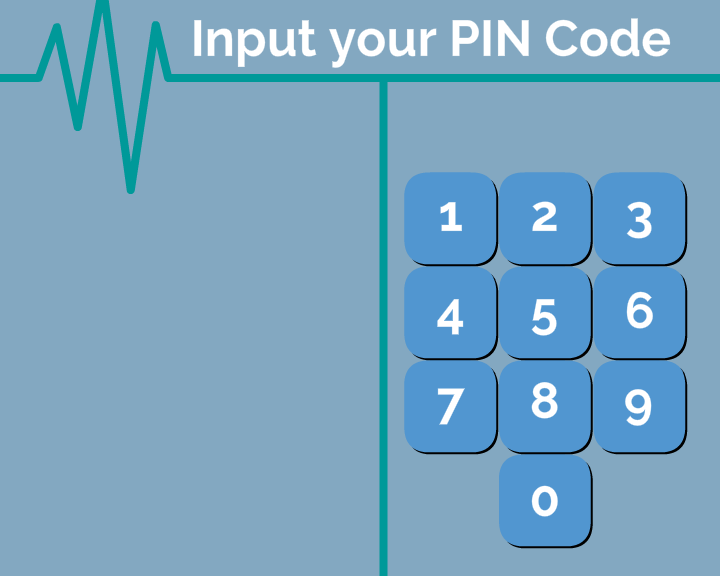
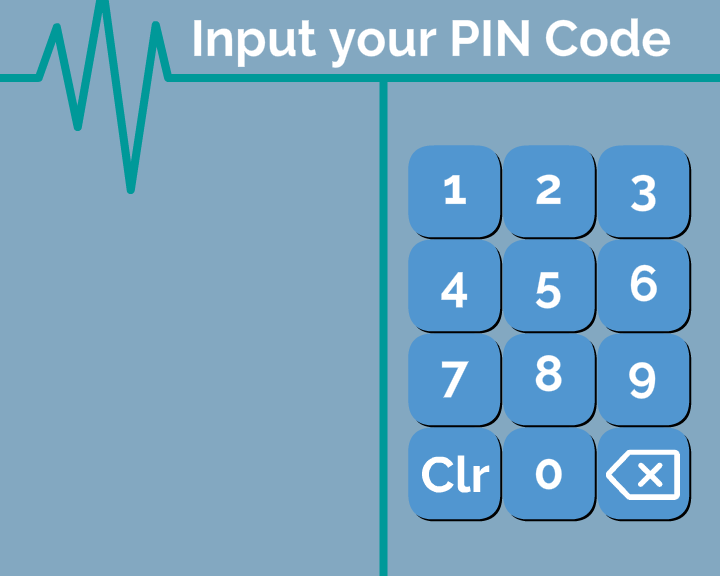
FixA

Changed region(s): [[0.55, 0.25, 0.9778, 0.9688]]

diff --git a/src/controller/PinInput.java b/src/controller/PinInput.java
@@ -18,22 +18,43 @@ import javax.swing.GroupLayout;
 import javax.swing.GroupLayout.Alignment;
 import java.awt.Font;
 import javax.swing.ImageIcon;
+import java.awt.event.MouseAdapter;
+import java.awt.event.MouseEvent;
 
 public class PinInput extends JPanel {
-	private JTextField textField;
+	private JTextField pinField;
 
 	/**
 	 * Create the panel.
 	 */
 	public PinInput() {
 		
-		setBounds(10, 136, 700, 429); //This is the size of this panel
+		setBounds(0, 0, 720, 576); //This is the size of this panel
 		//===========================
-		textField = new JTextField();
-		textField.setBounds(32, 173, 330, 142);
+		pinField = new JTextField();
+		pinField.setBounds(26, 233, 330, 142);
 		setLayout(null);
-		add(textField);
-		textField.setColumns(10);
+		add(pinField);
+		pinField.setColumns(10);
+		
+		final JLabel lblresponseDummy = new JLabel("Response Dummy");
+		lblresponseDummy.setBounds(191, 99, 142, 64);
+		add(lblresponseDummy);
+		
+		JLabel btnNum1 = new JLabel("");
+		btnNum1.addMouseListener(new MouseAdapter() {
+			public void mouseClicked(MouseEvent arg0) {
+				lblresponseDummy.setText("Response Detected");
+				pinField.setText("1");
+			}
+		});
+		btnNum1.setBounds(403, 173, 95, 91);
+		add(btnNum1);
+		
+		JLabel Background = new JLabel("New label");
+		Background.setIcon(new ImageIcon(PinInput.class.getResource("/assets/Pinput.png")));
+		Background.setBounds(0, 0, 720, 576);
+		add(Background);
 
 	}
 }

diff --git a/src/controller/ScreenSaver.java b/src/controller/ScreenSaver.java
@@ -13,10 +13,10 @@ public class ScreenSaver extends JPanel {
 		setBounds(0, 0, 720, 576);
 		setLayout(null);
 		
-		JLabel label = new JLabel("");
-		label.setIcon(new ImageIcon(ScreenSaver.class.getResource("/assets/ScreenSaver.png")));
-		label.setBounds(0, 0, 720, 576);
-		add(label);
+		JLabel background = new JLabel("");
+		background.setIcon(new ImageIcon(ScreenSaver.class.getResource("/assets/ScreenSaver.png")));
+		background.setBounds(0, 0, 720, 576);
+		add(background);
 	}
 
 }

diff --git a/src/controller/MainDisplay.java b/src/controller/MainDisplay.java
@@ -47,7 +47,7 @@ public class MainDisplay {
 		
 		//=======================TestBar
 		JPanel panelDisplay = new PinInput();
-		panelDisplay.setBounds(0, 0, 628, 353);
+		panelDisplay.setBounds(0, 0, 720, 576);
 		frame.getContentPane().add(panelDisplay);
 		frame.setVisible(true);
 		
